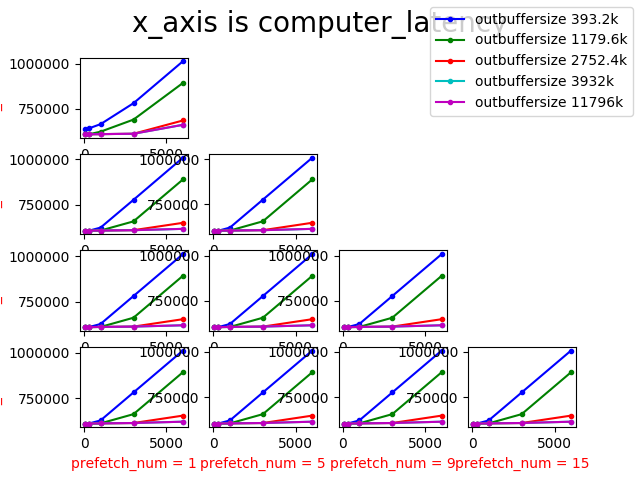
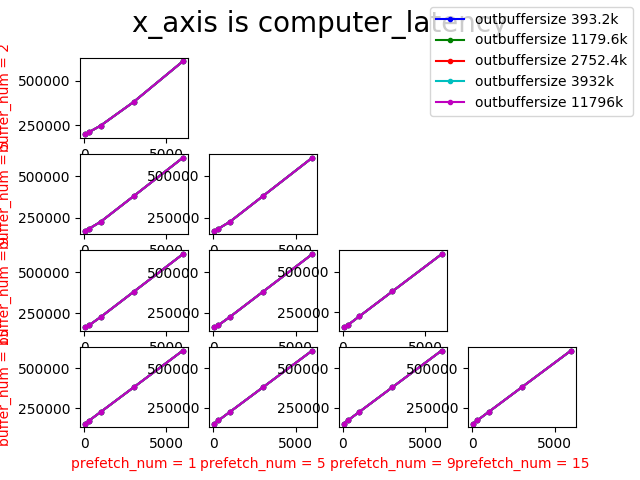
无

diff --git a/utilities/test.py b/utilities/test.py
@@ -216,8 +216,8 @@ def deal4():
     buffer_num = np.array([2, 5, 9, 15])
     prefetch_num = np.array([[1],[2,4],[1,4,9],[1,5,9,15]])
 
-    dram_bw_2 = 500
-    dram_bw_1 = 800
+    dram_bw_2 = 2048
+    dram_bw_1 = 2048
     mi_size = N * 60 / 1000
     output_buffer_size = [x * mi_size for x in [0.1, 0.3, 0.7, 1, 3]]
     computer_latency = [x for x in [50,300,1000,3000,6000]]
@@ -287,11 +287,16 @@ def deal5():
     N = 65536
     buffer_num = 2
     prefetch_num = 1
-    dram_bw_1 = 800
-    dram_bw_2 = 500
+    dram_bw_1 = 2048
+    dram_bw_2 = 2048
     mi_size = N * 60 / 1000
-    output_buffer_size = 3932
+    output_buffer_size = 1200
     computer_latency = [x for x in [50,300,1000,3000,6000]]
+
+    com_lat_str = []
+    for u in computer_latency:
+        com_lat_str.append(str(u))
+
     parammm = param()
     data = pd.read_csv(param_default_path)
     data["val"][0] = N
@@ -299,7 +304,7 @@ def deal5():
     data["val"][7] = prefetch_num
     label = ["tot", "pre", "comp", "wr_wai", "to_wb", "fin"]
     color = ['b', 'g', 'r', 'c', 'm', 'y']
-    x = [x for x in range(6)]
+    x = np.arange(6)
     data["val"][6] = dram_bw_1
     data["val"][8] = dram_bw_2
     width = 1
@@ -316,6 +321,10 @@ def deal5():
         plt.legend(t, label)
     plt.xlabel("computer_latency")
     result_default_path_2 = os.path.join(result_default_path, "deal5.png")
+    x = np.arange(6)
+    for i in range(x.size):
+        x[i] = i * width * 7 + 6 * width
+    plt.xticks(x + width * 3,com_lat_str)
     plt.savefig(result_default_path_2)
     plt.show()
 
@@ -370,7 +379,7 @@ if __name__ == "__main__":
     # deal3()
 
     # 分析输入buffer computer_latency和带宽与cycles的关系
-    deal4()
+    # deal4()
     deal5()
 
 
